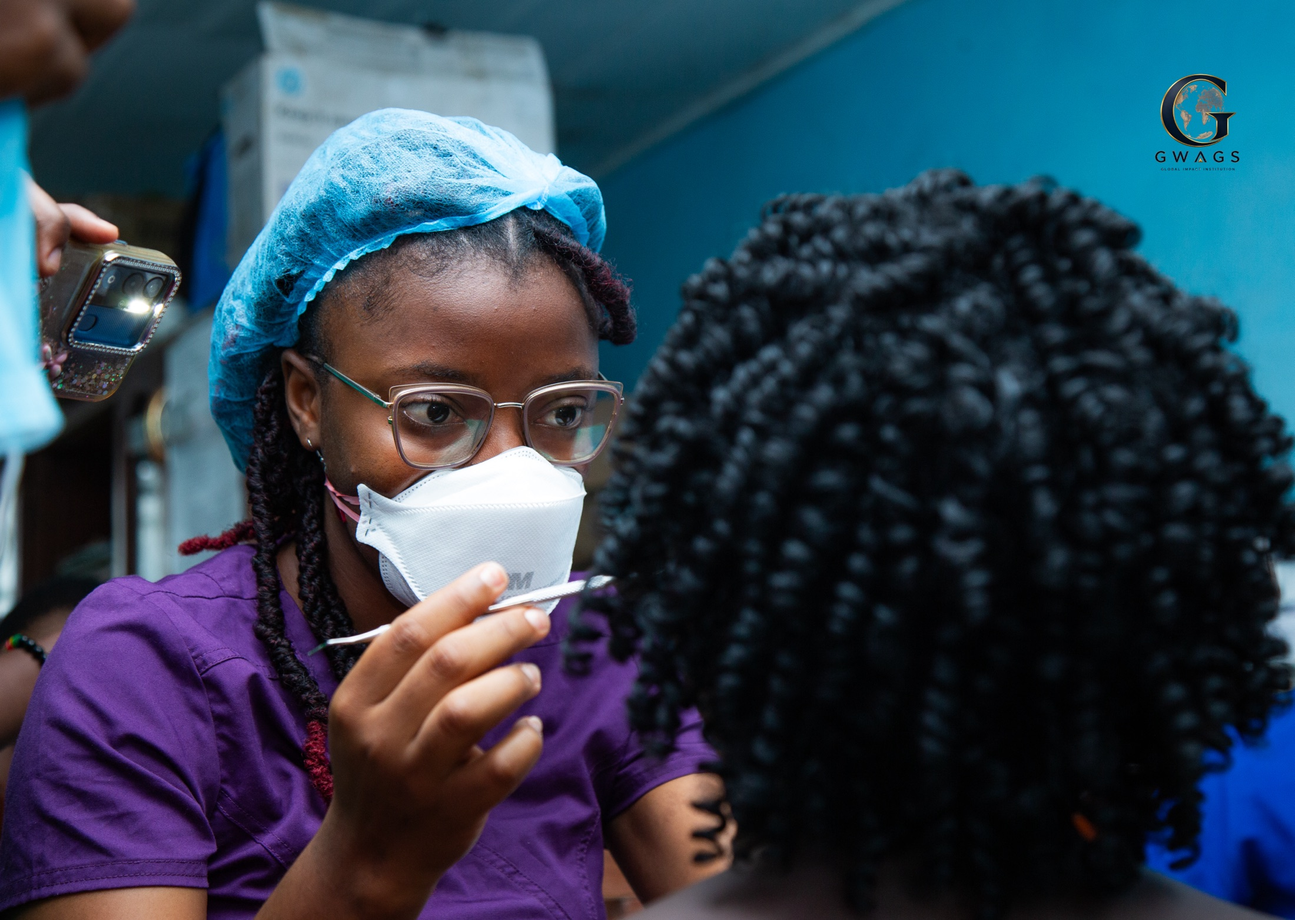
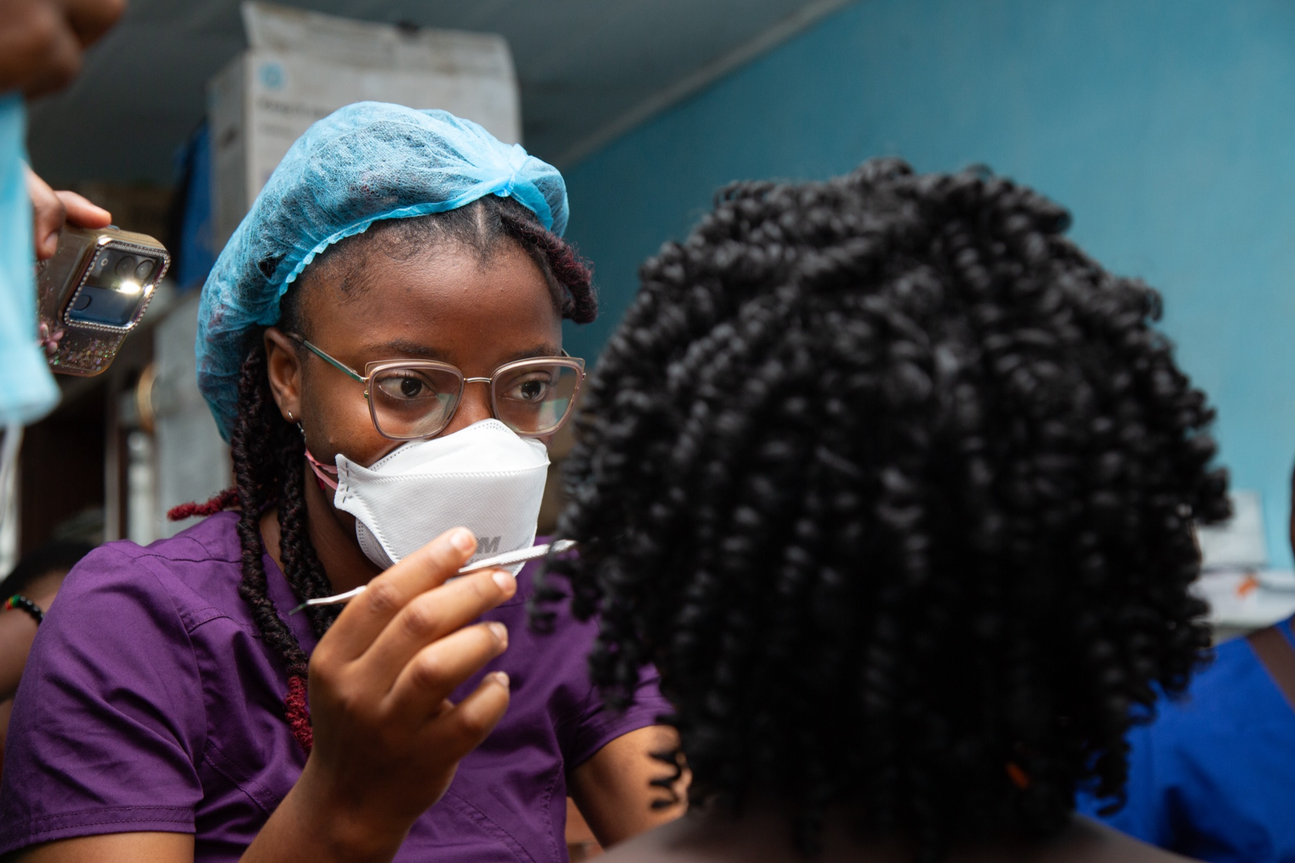
Update Nguti photos/stat and add Scholars card illustration
- Replace 2T8A0574.jpg and 2T8A0741.jpg with updated source versions
  (confirmed genuinely different content via changed aspect ratio,
  not just a re-copy of the same file)
- Nguti Health Campaign "beneficiaries targeted" stat: 1,500+ -> 1,700+
  (EN and FR)
- Add scholars-image-ii.png (Gwags Scholars Program journey graphic)
  and use it as the Scholars initiative card image on both the
  homepage and How We Work page, replacing the text placeholder

diff --git a/app/initiatives/health-outreach/[slug]/page.tsx b/app/initiatives/health-outreach/[slug]/page.tsx
@@ -29,7 +29,7 @@ const content: Record<string, Record<Lang, EventDetailData>> = {
         heading: 'Our impact',
         subheading: 'Impact numbers from the Nguti Health Campaign.',
         items: [
-          { value: '1,500+', label: 'beneficiaries targeted' },
+          { value: '1,700+', label: 'beneficiaries targeted' },
           { value: '120+', label: 'medical professionals deployed' },
         ],
       },
@@ -80,7 +80,7 @@ const content: Record<string, Record<Lang, EventDetailData>> = {
         heading: 'Notre impact',
         subheading: 'Chiffres d\'impact de la Campagne de Santé de Nguti.',
         items: [
-          { value: '1 500+', label: 'bénéficiaires ciblés' },
+          { value: '1 700+', label: 'bénéficiaires ciblés' },
           { value: '120+', label: 'professionnels de santé déployés' },
         ],
       },

diff --git a/app/about/how-we-work/page.tsx b/app/about/how-we-work/page.tsx
@@ -91,7 +91,7 @@ function SplitSection({ lang }: { lang: Lang }) {
 
 /* ── Initiative Strip (cards match the homepage Initiatives design) ── */
 const initiativeImagePlaceholders = [
-  'Photo: Scholars Program',
+  '/images/scholars/scholars-image-ii.png',
   'Photo: Mbal Lekeaka Fund',
   '/images/health-outreach/nguti-health-campaign/2T8A1050.jpg',
   '/images/ajong-foretia/coeur-de-jesus/DSC_1215.JPG',

diff --git a/components/Initiatives.tsx b/components/Initiatives.tsx
@@ -13,7 +13,7 @@ const routes = [
 ]
 
 const imagePlaceholders = [
-  'Photo: Scholars Program',
+  '/images/scholars/scholars-image-ii.png',
   'Photo: Mbal Lekeaka Fund',
   '/images/health-outreach/nguti-health-campaign/2T8A1050.jpg',
   '/images/ajong-foretia/coeur-de-jesus/DSC_1215.JPG',
